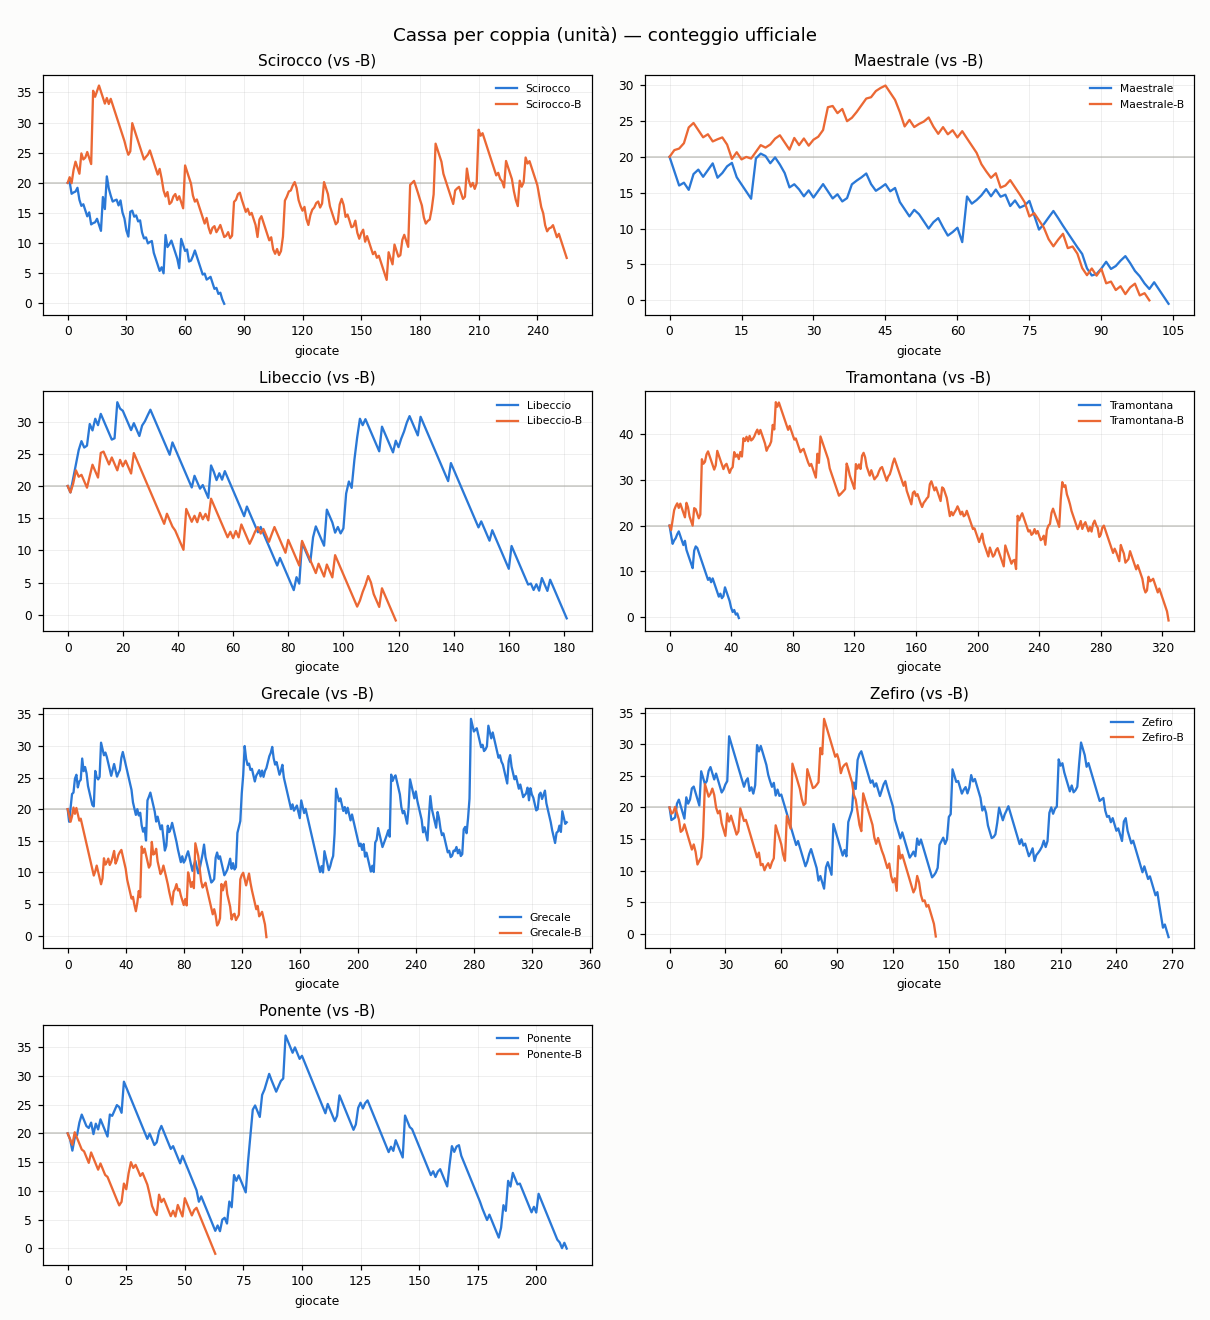
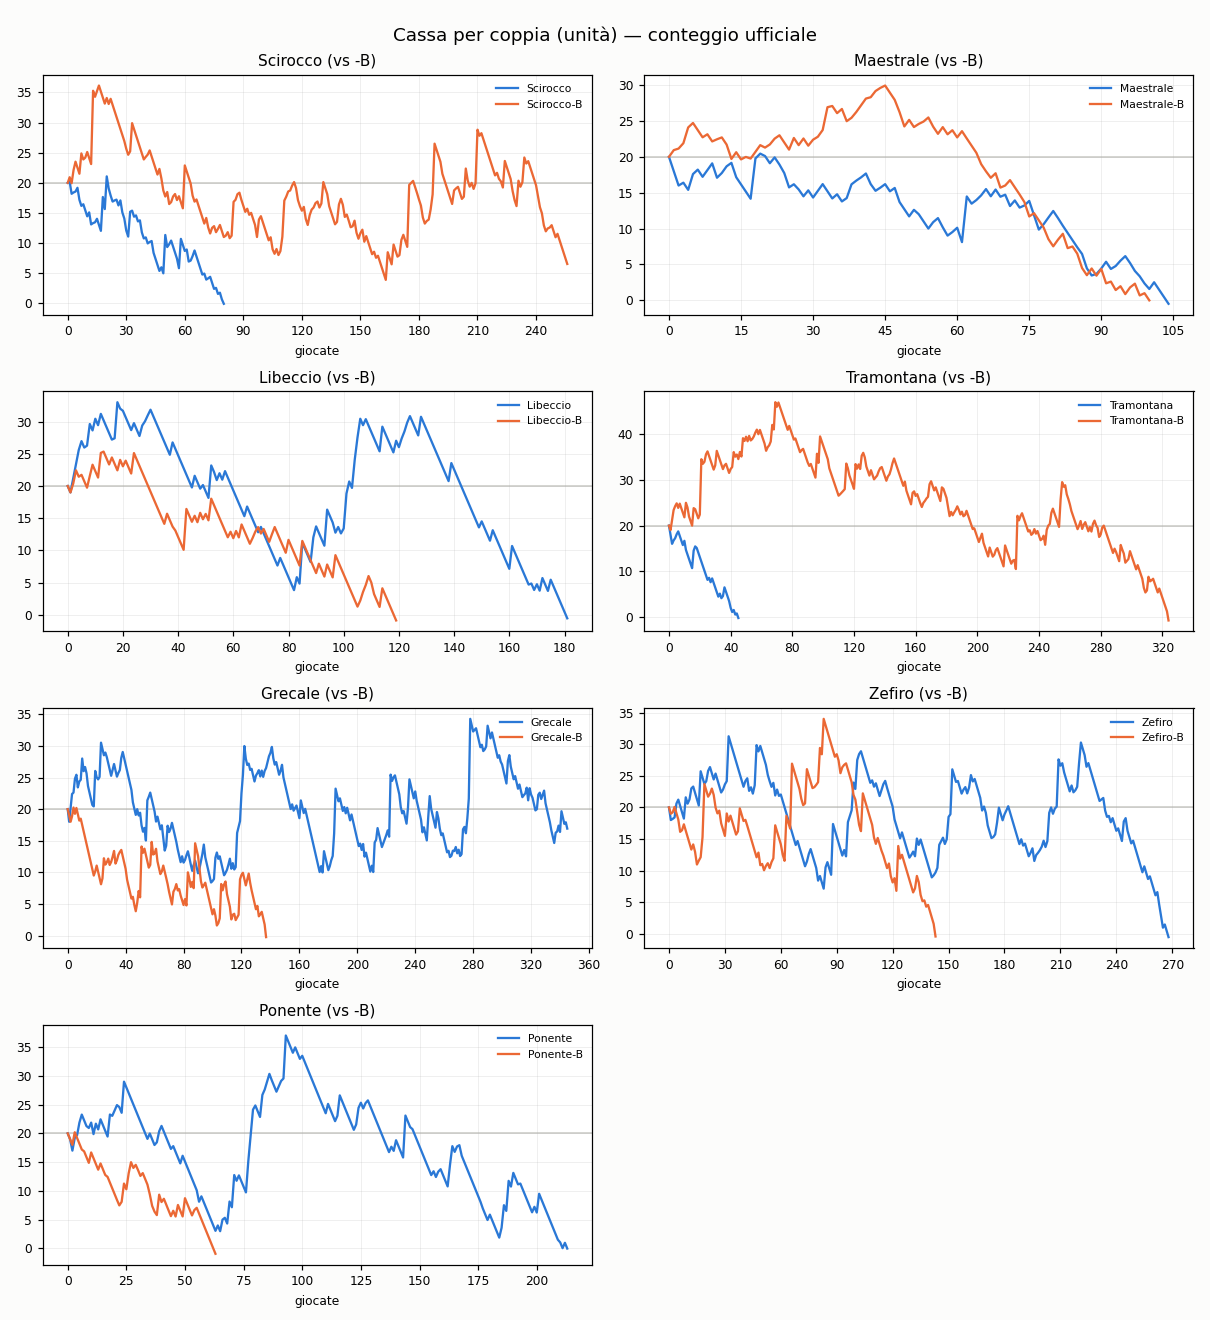
aggiornamento 2026-07-28 17:06 UTC

diff --git a/README.md b/README.md
@@ -37,9 +37,9 @@ scala in unità). Non indichiamo quale.
 
 ## Grafici
 
-![Coppie: dati completi vs ridotti](https://raw.githubusercontent.com/Kitem19/ippica-track-record/main/charts/equity_pairs.png?v=b41f80c1)
+![Coppie: dati completi vs ridotti](https://raw.githubusercontent.com/Kitem19/ippica-track-record/main/charts/equity_pairs.png?v=587067f3)
 
-![Delta per coppia](https://raw.githubusercontent.com/Kitem19/ippica-track-record/main/charts/coppie_delta.png?v=badda5d0)
+![Delta per coppia](https://raw.githubusercontent.com/Kitem19/ippica-track-record/main/charts/coppie_delta.png?v=9b9aa142)
 
 ### Come leggere i grafici
 
@@ -56,11 +56,11 @@ scala in unità). Non indichiamo quale.
 
 _Poche giornate: numeri ancora rumorosi, si conclude a fine fase (31/7)._
 
-- **Scirocco**: dati ridotti avanti di 7,6u — qui gli extra non aiutano
+- **Scirocco**: dati ridotti avanti di 6,6u — qui gli extra non aiutano
 - **Maestrale**: in sostanziale pareggio — troppo presto per dire
 - **Libeccio**: in sostanziale pareggio — troppo presto per dire
 - **Tramontana**: in sostanziale pareggio — troppo presto per dire
-- **Grecale**: dati completi avanti di 18,2u
+- **Grecale**: dati completi avanti di 17,2u
 - **Zefiro**: in sostanziale pareggio — troppo presto per dire
 - **Ponente**: in sostanziale pareggio — troppo presto per dire
 
@@ -68,22 +68,22 @@ _Poche giornate: numeri ancora rumorosi, si conclude a fine fase (31/7)._
 
 | Sistema | Cassa (u) | P/L (u) | Selezioni | Escluse | Stato |
 |---|---|---|---|---|---|
-| Grecale | 17,9 | -2,1 | 344 | 4 | 🟢 |
-| Scirocco-B | 7,5 | -12,5 | 255 | 6 | 🟢 |
-| Maestrale-B | 0,0 | -20,0 | 100 | 278 | 🛑 |
+| Grecale | 16,9 | -3,1 | 345 | 4 | 🟢 |
+| Scirocco-B | 6,5 | -13,5 | 256 | 6 | 🟢 |
+| Maestrale-B | 0,0 | -20,0 | 100 | 279 | 🛑 |
 | Ponente | 0,0 | -20,0 | 213 | 54 | 🛑 |
-| Scirocco | 0,0 | -20,1 | 80 | 301 | 🛑 |
-| Grecale-B | 0,0 | -20,2 | 137 | 194 | 🛑 |
-| Tramontana | 0,0 | -20,3 | 45 | 339 | 🛑 |
+| Scirocco | 0,0 | -20,1 | 80 | 302 | 🛑 |
+| Grecale-B | 0,0 | -20,2 | 137 | 195 | 🛑 |
+| Tramontana | 0,0 | -20,3 | 45 | 340 | 🛑 |
 | Zefiro-B | 0,0 | -20,5 | 143 | 95 | 🛑 |
-| Maestrale | 0,0 | -20,5 | 104 | 297 | 🛑 |
-| Zefiro | 0,0 | -20,6 | 268 | 28 | 🛑 |
-| Libeccio | 0,0 | -20,6 | 181 | 202 | 🛑 |
-| Tramontana-B | 0,0 | -20,8 | 324 | 48 | 🛑 |
-| Libeccio-B | 0,0 | -20,9 | 119 | 214 | 🛑 |
-| Ponente-B | 0,0 | -21,0 | 63 | 113 | 🛑 |
+| Maestrale | 0,0 | -20,5 | 104 | 298 | 🛑 |
+| Zefiro | 0,0 | -20,6 | 268 | 29 | 🛑 |
+| Libeccio | 0,0 | -20,6 | 181 | 203 | 🛑 |
+| Tramontana-B | 0,0 | -20,8 | 324 | 49 | 🛑 |
+| Libeccio-B | 0,0 | -20,9 | 119 | 215 | 🛑 |
+| Ponente-B | 0,0 | -21,0 | 63 | 114 | 🛑 |
 
-_Aggiornato: 28/07 19:01_
+_Aggiornato: 28/07 19:06_
 ---
 *Nessuna delle informazioni qui pubblicate costituisce consiglio di gioco.
 Il gioco può causare dipendenza — 18+.*
